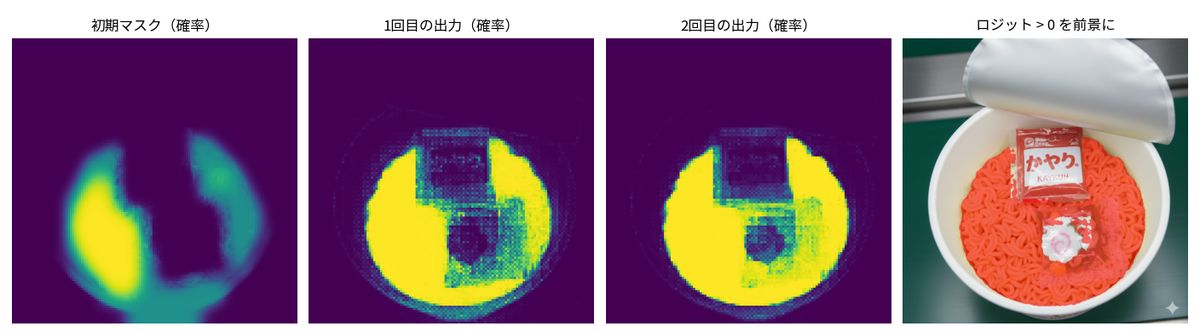
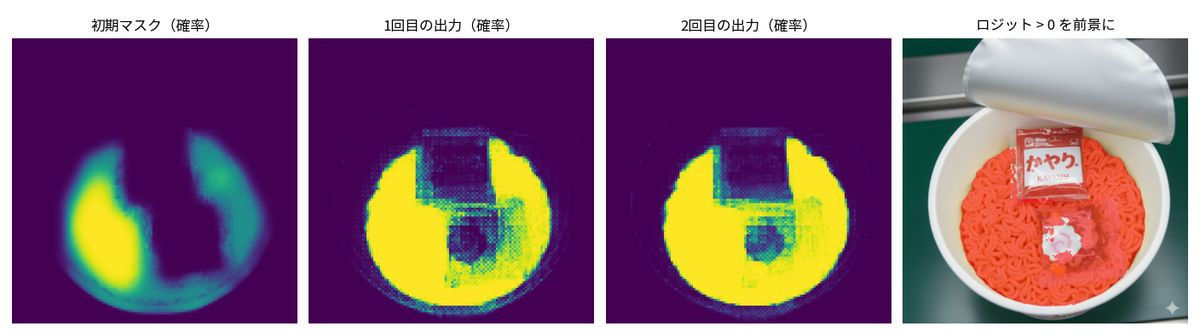
説明資料を更新

diff --git a/tools/docs/make_points_doc_images.py b/tools/docs/make_points_doc_images.py
@@ -1,0 +1,62 @@
+"""前景のプロンプト点の選び方の説明資料（docs/detailed_segmentation.md §2）用の画像を作る: 従来（パッチの中心）と現在（EdgeTAM の高解像度特徴量の画素）で、
+点・最終結果・正解の輪郭を並べる。MVTec の画像（正解 = fg_mask）を使う。
+
+    python tools/docs/make_points_doc_images.py [--images toothbrush/035 toothbrush/005] [--out docs/images/points_toothbrush.jpg]
+
+従来の選び方は SemanticRefiner.use_object_points = False（core/common/mask_utils.prompt_points）。OpenVINO 版（configs/ov_config.yaml）で実行する。
+"""
+import argparse
+import sys
+from pathlib import Path
+
+import cv2
+import matplotlib
+
+matplotlib.use("Agg")
+import numpy as np
+from PIL import Image
+
+sys.path.insert(0, str(Path(__file__).resolve().parents[2]))
+from core.openvino.runtime_utils import make_compile_config  # noqa: F401  (import openvino より前に /opt/intel/openvino を外す)
+from core.common.segmentation_runner import SegmentationRunner
+from core.openvino.edgetam_runner import OVEdgeTamRunner
+from core.openvino.feature_extractor import OVCLIPFeatureExtractor
+from core.utils import load_config, load_image
+from tools.docs.make_doc_images import DISPLAY, outline, overlay, points_on, save_panels
+
+MVTEC = Path("/home/llm/datasets/mvtec_anomaly_detection")
+
+
+def main() -> None:
+    parser = argparse.ArgumentParser()
+    parser.add_argument("--images", nargs="+", default=["toothbrush/035", "toothbrush/005"], help="MVTec のカテゴリ/番号")
+    parser.add_argument("--out", default="docs/images/points_toothbrush.jpg")
+    args = parser.parse_args()
+
+    config = load_config()
+    runner = SegmentationRunner(OVCLIPFeatureExtractor(config), OVEdgeTamRunner(config), config)
+    panels = []
+    for name in args.images:
+        category, index = name.split("/")
+        image = load_image(MVTEC / category / "train" / "good" / f"{index}.png")
+        gt = np.array(Image.open(MVTEC / "fg_mask" / category / f"{index}.png"))
+        gt = (gt[..., 0] if gt.ndim == 3 else gt) > 0
+        base = cv2.resize(image, (DISPLAY, DISPLAY), interpolation=cv2.INTER_AREA)
+        scale = DISPLAY / max(image.shape[:2])
+        gt_display = cv2.resize(gt.astype(np.uint8), (DISPLAY, DISPLAY), interpolation=cv2.INTER_NEAREST)
+        for use_object_points, label in ((False, "従来（パッチの中心）"), (True, "現在（高解像度の画素）")):
+            runner.refiner.use_object_points = use_object_points
+            result = runner.segment(image)
+            predicted = result.semantic_map > 0
+            truth = cv2.resize(gt.astype(np.uint8), predicted.shape[::-1], interpolation=cv2.INTER_NEAREST) > 0
+            iou = (predicted & truth).sum() / max((predicted | truth).sum(), 1)
+            panel = overlay(base, cv2.resize(predicted.astype(np.uint8), (DISPLAY, DISPLAY), interpolation=cv2.INTER_NEAREST), (255, 0, 0), 0.45)
+            panel = outline(panel, gt_display, (255, 255, 0), 2)
+            panel = points_on(panel, result.point_coords, result.point_labels, scale, radius=6)
+            panels.append((f"{category} {index}  {label}\nIoU {iou:.3f}", panel))
+            print(f"{name}  {label}  点 {len(result.point_coords)}  IoU {iou:.3f}")
+    save_panels(Path(args.out), panels, ncols=4)
+
+
+if __name__ == "__main__":
+    main()

diff --git a/docs/detailed_segmentation.md b/docs/detailed_segmentation.md
@@ -18,7 +18,7 @@ flowchart TD
 
     subgraph L["クラスごと（_refine_classes）"]
         direction TB
-        L1["粗いマスクを連結成分に分ける<br/>connected_components"] --> L2["正例点を選ぶ<br/>prompt_points"]
+        L1["粗いマスクを連結成分に分ける<br/>connected_components"] --> L2["正例点を選ぶ<br/>_foreground_points"]
         L1 --> L3["初期マスクを作る<br/>_build_prior_map"]
         L2 --> L4["EdgeTAM デコーダを 2 回反復<br/>_estimate_class_logit"]
         L3 --> L4
@@ -47,8 +47,9 @@ flowchart TD
 | 粗い格子の輪郭を、画素単位にしたい | EdgeTAM に点と初期マスクを与える | 画像を見て輪郭が決まる |
 | 粗い結果の太り・欠けを引き継ぎたくない | 粗いマスクを**ヒント**にする。内側は確実・縁とその外側 1 パッチは「不明」・それより外は背景 | 太りは削れ、縁のパッチが落ちていても縁が戻る |
 | 小さい・細い物体にも点を置きたい | 正例点に、**各連結成分の最内点を必ず含める** | 漏れなく点が置かれる |
+| 点がパッチの中心だと、縁のパッチでは物体の外に落ち、細い物体では一部（歯ブラシの毛だけ）に偏る。EdgeTAM は点のある領域だけをマスクにする | 残りの正例点を、パッチの中心ではなく、**EdgeTAM の高解像度特徴量（128×128）の画素**から、**物体らしさ**で重みづけして選ぶ（粗いマスクの縁のパッチも含める） | 点が縁・細い部分まで届く（toothbrush の IoU 0.67〜0.70 → 0.96〜0.98）。パラメータは増えない |
 | 背景の斑点から、物体が背景へ広がる | 孤立した極小成分（3 パッチ未満）は、クラスの推定に混ぜない | 斑点に置いた点を経由した広がりを防ぐ |
-| 点を置く場所が悪いと結果が壊れる（正例が縁だと背景へ広がり、負例が物体の近くだと欠ける） | 正例は core（内側）、負例は**前景から離れた、最も背景と確信できる場所** | 点が結果を壊さない |
+| 点を置く場所が悪いと結果が壊れる（正例が背景だと背景へ広がり、負例が物体の近くだと欠ける） | 正例は**背景より物体に近い画素**（物体らしさが正）、負例は**前景から離れた、最も背景と確信できる場所** | 点が結果を壊さない |
 | 縁が 16px の格子に縛られる | 初期マスクを 128×128 に拡大して、**入力画像の輝度でガイデッドフィルタ** | 「不明」の縁が、画像の明るさの縁に沿って物体側・背景側へ倒れる。小物体で背景へ膨らむのも防ぐ |
 | EdgeTAM は 1 回に 1 つのマスクしか返さない | **クラスごとに別々に推定**し、重なりはスコアで決める | クラス間で公平に決められる |
 | 切り出せなかった物体がある | 最内点が覆われていない成分を、**単独で再推定** | 取りこぼしを拾える |
@@ -63,10 +64,10 @@ flowchart TD
 | | コイン | カップ麺 |
 |---|---|---|
 | 前景クラス | 1（coin） | 4（noodle・package・white plastic lid・round white food container） |
-| 麺クラスの連結成分 | — | 2（52 と 143 パッチ） |
-| 正例点 / 負例点 | 7 / 4 | 25 / 28 |
-| 再推定した成分 | 0 | 3 |
-| EdgeTAM デコーダの呼び出し | 2 回 | 14 回（(4 クラス + 再推定 3) × 2 回） |
+| 麺クラスの連結成分 | — | 3（52 と 129 パッチ、1 パッチの斑点） |
+| 正例点 / 負例点 | 7 / 4 | 24 / 24 |
+| 再推定した成分 | 0 | 2 |
+| EdgeTAM デコーダの呼び出し | 2 回 | 12 回（(4 クラス + 再推定 2) × 2 回） |
 
 ### 1. 準備
 
@@ -108,7 +109,7 @@ flowchart TD
 
 ### 2. クラスごとの連結成分と正例点
 
-関数: `_refine_classes` → `connected_components` → `prompt_points`
+関数: `_refine_classes` → `connected_components` → `_foreground_points`（`core/common/object_points.py`）
 
 ```mermaid
 flowchart TD
@@ -117,7 +118,7 @@ flowchart TD
     C --> D{"成分が 3 パッチ以上か"}
     D -->|はい| E["主成分<br/>クラスの推定に使う"]
     D -->|いいえ: 斑点| F["主成分から外す<br/>後段の再推定で扱う"]
-    E --> G["正例点 = 各主成分の最内点 +<br/>足りなければ core 上の最遠点で 4 点まで"]
+    E --> G["正例点 = 各主成分の最内点 +<br/>足りなければ物体らしい画素から 4 点まで<br/>（下の「正例点の選び方」）"]
 ```
 
 | 用語 | 意味 |
@@ -128,8 +129,8 @@ flowchart TD
 
 ![points](images/coin_r02_points.jpg)
 
-- 左: 7 つの連結成分。水色の線が core、黄点が最内点。
-- 右: EdgeTAM に渡す点。正例（緑）は **7 点**、負例（赤）は 4 点。
+- 左: 7 つの連結成分。水色の線が core、黄点が最内点（パッチの位置）。
+- 右: EdgeTAM に渡す点。正例（緑）は **7 点**、負例（赤）は 4 点。正例の点は、最内点のパッチの中で物体らしさが最大の画素にあり、パッチの中心とは少しずれる。
 - コインは 9 枚あるのに点は 7 つ。右の 3 枚（右のコイン・茶色の 10 円玉・50 円玉）は粗いマスクでつながって**1 つの成分**（76 パッチ）になり、最内点は 1 つだけだから。点がない 2 枚も、最終的には切り出せている（[4. の反復の図](#4-edgetam-デコーダの反復)）。
 - 最内点の数が `edgetam_foreground_points_per_class`（4）を超えるので、最遠点による追加は無い。
 
@@ -137,9 +138,39 @@ flowchart TD
 
 ![noodle points](images/noodle_r02_points.jpg)
 
-- 左は**麺クラス**だけ。成分は 2 つ（52・143 パッチ）。core は麺の左側と右上に広がり、中央から右下は抜けている（そこは粗いラベルが `package` で、別クラスだから）。
-- 右は全クラスの点。正例（緑）はフタ・容器・麺・袋に置かれ、合計 25 点。負例（赤）は 4 点を 7 回（4 クラス + 再推定 3）使うので 28 点。
-- 正例点は画像の**下端にも並ぶ**。粗い前景が画面下端まで伸びているため。
+- 左は**麺クラス**だけ。成分は 3 つ（129・52 パッチと、1 パッチの斑点）。斑点は 3 パッチ未満なので主成分から外れる（後段の再推定で扱う）。core は麺の左側と右上に広がり、中央から右下は抜けている（そこは粗いラベルが `package` で、別クラスだから）。
+- 右は全クラスの点。正例（緑）はフタ・容器・麺・袋に置かれ、合計 24 点。負例（赤）は 4 点を 6 回（4 クラス + 再推定 2）使うので 24 点。
+- 正例点は画像の**下端・右下にも並ぶ**（再推定した成分の点も含む）。粗い前景が画面下端まで伸びているため。
+
+#### 正例点の選び方（物体らしさ）
+
+粗いマスクはパッチ単位（1 パッチ = 16 画素）で、縁のパッチは物体と背景が混ざる。点をパッチの中心に置くと、縁や細い物体では、点が物体の外に落ちたり、物体の一部に偏ったりする。EdgeTAM は点のある領域だけをマスクにするので、偏りはそのまま欠けになる。そこで、残りの正例点を、パッチの中心ではなく、EdgeTAM の高解像度特徴量の**画素**から選ぶ（`core/common/object_points.py`）。
+
+```mermaid
+flowchart TD
+    A["EdgeTAM の特徴量 3 層<br/>128×128・64×64・32×32<br/>画素ごとに L2 正規化（画像に 1 回）"] --> B["物体の特徴 = クラスの core の平均<br/>背景の特徴 = 粗い前景から 2 パッチ以上離れた領域の平均（画像に 1 回）"]
+    B --> C["物体らしさ = 物体の特徴とのコサイン類似度<br/>− 背景の特徴とのコサイン類似度<br/>3 層を 128×128 に拡大して平均"]
+    C --> D["候補 = 粗いマスク全体（縁のパッチを含む）のうち<br/>物体らしさが正の画素"]
+    D --> E["各成分の最内点 = そのパッチの中で<br/>物体らしさが最大の画素"]
+    E --> F["残りは「選択済みの点からの距離 × 物体らしさ」が<br/>最大の画素を、4 点まで足す"]
+```
+
+![points toothbrush](images/points_toothbrush.jpg)
+
+- toothbrush の 2 枚。黄線は正解の輪郭、赤は最終結果、緑は正例点、左上の赤は負例点。
+- 従来（パッチの中心。左の 2 枚）は、点が毛の中に集まり、EdgeTAM が毛の領域だけをマスクにする（ヘッドの縁と柄が欠ける。IoU 0.694・0.704）。
+- 現在（右の 2 枚）は、点がヘッドの縁・柄まで届き、全体がマスクになる（IoU 0.976・0.976）。
+- 距離だけで選ぶと（物体らしさを掛けないと）縁の背景寄りの画素に点が寄り、合成データで下がる（−0.009）。距離に物体らしさを掛けると、MVTec・独立・合成のすべてで上がる。
+
+| 前景 IoU | 従来 | 現在 | 差（95% 区間） |
+|---|---|---|---|
+| MVTec 96 枚 | 0.8338 | 0.8492 | +0.0155（+0.0039〜+0.0305） |
+| 独立 48 枚 | 0.8404 | 0.8638 | +0.0234（+0.0064〜+0.0446） |
+| 合成 120 枚 | 0.6524 | 0.6628 | +0.0104（+0.0006〜+0.0239） |
+
+- **改善は、細長く領域が分かれた物体に偏る。** MVTec・独立 144 枚の改善は toothbrush（平均 +0.105）と transistor（+0.040）に集中する。toothbrush・transistor・screw を除くと差はほぼ 0（+0.0003。改善 14 枚・悪化 11 枚）で、悪化した画像の悪化幅も小さい（最大 −0.033）。
+- 背景の特徴が作れないとき（前景が画像の全体など）は、従来どおり core 上のパッチの中心から選ぶ。
+- 点は 4 点のまま（パラメータは増えない）。時間は +約 6ms（実画像 177 枚の中央値 184 → 190ms）。
 
 ### 3. 初期マスク（事前確率）
 
@@ -196,7 +227,7 @@ sequenceDiagram
     participant H as EdgeTamHelper
     participant D as EdgeTAM デコーダ
 
-    R->>R: 正例点（成分の最内点）+ 負例点 4 点<br/>初期マスク = (2p − 1) × 8
+    R->>R: 正例点（物体の上の画素）+ 負例点 4 点<br/>初期マスク = (2p − 1) × 8
     loop edgetam_refine_iterations（2 回）
         R->>H: preprocess(点, 初期マスク)<br/>座標を入力画像の座標へ
         H-->>R: 正規化した点・マスク
@@ -291,19 +322,18 @@ flowchart TD
 - 極小成分は、周囲の背景まで広がらないよう範囲を制限する。1〜2 パッチの孤立成分は、背景の斑点であることが多い。
 - **コイン画像では発動しない**。7 つの成分の最内点は、どれもクラスのマスクに覆われていた。発動する例はカップ麺の画像（次の図）。
 
-**カップ麺の場合**（4 クラス。覆われていない成分が 3 つ）:
+**カップ麺の場合**（4 クラス。覆われていない成分が 2 つ）:
 
 ![noodle rescue](images/noodle_r08_rescue.jpg)
 
 | クラス | 成分（最内点） | パッチ数 | 範囲の制限 |
 |---|---|---|---|
 | 2（package） | (30, 29)。右下の星印のロゴ | 3 | なし（3 パッチ以上） |
-| 4（round white food container） | (11, 30)。画面下端 | 2 | あり（1 パッチ広げた範囲まで） |
-| 4（round white food container） | (14, 31)。画面下端 | 5 | なし（3 パッチ以上） |
+| 2（package） | (15, 31)。画面下端 | 3 | なし（3 パッチ以上） |
 
-- 左: 各クラスのマスクをすべて重ねた状態（再推定の前）。上の 3 つの成分には、最内点にどのクラスのマスクも届いていない（赤枠）。
-- 右から 2 番目: 再推定で足された画素（赤）。成分ごとに単独で EdgeTAM を実行して、`semantic_map` が 0 の画素にだけ書き込んでいる。**星印のロゴ**と、**画面下端の四角い塊**（約 1 万画素。作業解像度の 1%）が足された。
-- **ここでは再推定が誤検出を足している。** 星印は物体ではなく、画面下端の塊も物体の輪郭に沿わない四角形。取りこぼしの救済は、粗い判定の誤りもそのまま救ってしまう。極小成分の制限（3 パッチ未満）は、5 パッチの成分には働かない。
+- 左: 各クラスのマスクをすべて重ねた状態（再推定の前）。上の 2 つの成分には、最内点にどのクラスのマスクも届いていない（赤枠）。
+- 右から 2 番目: 再推定で足された画素（赤）。成分ごとに単独で EdgeTAM を実行して、`semantic_map` が 0 の画素にだけ書き込んでいる。**星印のロゴ**と**画面下端の領域**が足された（合わせて 2,572 画素。作業解像度の 0.25%）。
+- **ここでは再推定が誤検出を足している。** 星印は物体ではなく、画面下端の領域も物体ではない。取りこぼしの救済は、粗い判定の誤りもそのまま救ってしまう。極小成分の制限（3 パッチ未満）は、3 パッチの成分には働かない。
 - 取りこぼしが本物の小物体のときは効く（この仕組みを入れた理由）。画像ごとの得失は、粗い段階の誤検出の多さに依る。
 
 ### 8. 後処理
@@ -333,8 +363,8 @@ flowchart TD
 
 | 処理 | 前景の変化 |
 |---|---|
-| `remove_small_regions` | +2,094 画素（小さな成分の除去と、小さな穴の穴埋めの差し引き。穴の埋まる分が上回った） |
-| `fill_narrow_gaps` | +10,991 画素（前景内部の細い隙間が、最寄りのクラスで埋まる） |
+| `remove_small_regions` | +3,845 画素（小さな成分の除去と、小さな穴の穴埋めの差し引き。穴の埋まる分が上回った） |
+| `fill_narrow_gaps` | +7,227 画素（前景内部の細い隙間が、最寄りのクラスで埋まる） |
 
 隙間埋めは、クラスが複数ある画像で、境界が画像の強い縁に重なるときに効く。コインは 1 クラスなので、割れ目が生まれない。
 
@@ -349,7 +379,7 @@ flowchart TD
 ![noodle overview](images/noodle_overview.jpg)
 
 - 左から、入力・KMeans・粗い前景マスク・EdgeTAM に渡した点・最終結果。カップ・フタ・麺・袋が、輪郭に沿って切り出された。
-- 残る誤りは、再推定の節の 2 つ（星印のロゴ・画面下端の四角い塊）。粗い段階の誤検出が、そのまま最終結果に残る。
+- 残る誤りは、再推定の節の 2 つ（星印のロゴ・画面下端の領域）。粗い段階の誤検出が、そのまま最終結果に残る。
 
 ## 格子状に並んだ小物体の分離
 
@@ -403,7 +433,7 @@ flowchart LR
 
 | キー | 値 | 意味 |
 |---|---|---|
-| `edgetam_foreground_points_per_class` | 4 | クラスごとの正例点（各成分の最内点は必ず含む） |
+| `edgetam_foreground_points_per_class` | 4 | クラスごとの正例点（各成分の最内点は必ず含む。残りは物体らしさで選ぶ） |
 | `edgetam_background_point_count` | 4 | 背景の負例点 |
 | `edgetam_refine_iterations` | 2 | デコーダの反復回数 |
 | `semantic_max_side` | 1024 | マスク演算の作業解像度（長辺） |
@@ -430,6 +460,7 @@ flowchart LR
 
 - **粗い誤りは直せない。** 背景を前景と判定したクラスは、そのまま前景になる。後から再判定して消す案も試したが、悪化した。
 - **点は連結成分ごと。** 接した複数の物体は 1 つの成分になり、点も 1 つ（このコイン画像の右の 3 枚）。切り出せるかは初期マスクと反復に依る。物体が格子状に並んでいるときだけ、セルごとに分ける（上の節）。それ以外の接した・近接した物体は、1 つの塊になりうる。
+- **正例点を物体の上に選ぶ効果は、細長く領域が分かれた物体に偏る。** MVTec・独立の改善は toothbrush・transistor に集中し、ほかのカテゴリはほぼ 0。正解の物体画素へ点を動かす上限でも MVTec は +0.001 で、点の位置だけを直す余地は小さい。正解のない実画像（D2S・COCO128）の評価は、現行との一致 IoU と目視のみ。
 - **負例点が端に寄る。** 画像の中央の背景には置かれない。ばらしても精度は上がらなかった。
 - **透明・低コントラストの物体**は、ガイデッドフィルタの手がかり（輝度の縁）が弱く、背景への広がりが残ることがある。
 - 処理時間: デコード（1 回 約 6〜7ms）の回数は「クラス数 × 反復回数 +（再推定した成分数 × 反復回数）」。クラスが多い画像ほど遅い。

diff --git a/docs/method_history.md b/docs/method_history.md
@@ -25,7 +25,7 @@ flowchart TD
     PROP --> MRG["似たプロンプトのクラスをまとめる<br/>僅差 + 同義語（物体の中）"]
     MRG --> FIX["整形<br/>穴埋め・細い領域の統合"]
     FIX --> PRIOR["初期マスク<br/>外周「不明」+ ガイデッドフィルタ"]
-    FIX --> PTS["点 4:4<br/>負例は最も確信できる背景"]
+    FIX --> PTS["点 4:4<br/>正例は物体らしい画素<br/>負例は最も確信できる背景"]
     PRIOR --> DEC["EdgeTAM デコーダ 2 回反復"]
     PTS --> DEC
     ET --> DEC
@@ -39,11 +39,12 @@ flowchart TD
     X4["SAM2.1 tiny"] -.-> DEC
     X5["再判定・候補選択・他クラス負例<br/>128×128 事前マスク・負例点をばらす"] -.-> PRIOR
     X6["動的 K・テキストの代表化・touch・anchor<br/>物体単位の命名・切り抜き埋め込みの再グループ化"] -.-> MRG
+    X7["正例点を縁から離す・パッチの中で動かす"] -.-> PTS
 
     classDef adopted fill:#d8f3dc,stroke:#2d6a4f,color:#1b1b1b;
     classDef rejected fill:#f8d7da,stroke:#842029,stroke-dasharray:4 3,color:#1b1b1b;
     class PRE,PE,PROP,MRG,PRIOR,PTS,DEC,POST adopted;
-    class X1,X2,X3,X4,X5,X6 rejected;
+    class X1,X2,X3,X4,X5,X6,X7 rejected;
 ```
 
 緑 = 現在の手法で変更した箇所（採用）。赤の破線 = 試して採用しなかった案。
@@ -64,6 +65,7 @@ flowchart TD
 | 10 | 前景プロンプト（透明な筒） | なし | **`a photo of transparent tubes.`** を追加 | 006_syringe（透明な筒 80 個の巣）が全面背景（IoU 0.0）から、前景が出る（0.69）。MVTec・独立 48 枚は変化なし、合成 0.656 → 0.663 | 複数形でないと効かない。COCO128・D2S 278 枚のうち 23 枚で最終結果が変わる（前景が増えたもの 15・減ったもの 8。工業系の実画像 16 枚は一致） |
 | 11 | 格子状の小物体の分離 | クラス単位のデコードのみ（隙間 1 パッチ未満の物体は 1 つの塊） | **画像の勾配の自己相関で格子を検出したときだけ、セルごとの箱プロンプトで 1 個ずつデコード**（`lattice.py`・`lattice_separator.py`） | 006 の IoU 0.69 → **0.91**（前景 FP 23% → 3.8%）。005 は空きスロット 7 個を除ける。PyTorch 版も同じ | 作動は狭い（検証 559 枚では 006 のみ。ほかに巣の 004・005、合成の格子 120 枚中 3 枚）。作動時 約 +150ms（判定は毎回 約 6ms）。箱の大きさに敏感（+8% で 0.86、−6% で 0.81、±12% で 0.71〜0.75）。高密度（ピッチ 2 パッチ未満）は未対応。C++ 版は未対応 |
 | 12 | 1 つの物体のクラスの割れ | クラスタごとに最も近いプロンプトを選ぶだけ（似たプロンプトに割れる） | **PE のクラスタのロジットが僅差（1.0 以内）のプロンプトを、より大きいクラスへ統合 + 1 つの物体の中の同義語（テキスト埋め込みの距離 0.08 以内）をまとめる**（`semantic_merge.py`） | 透明なボトル（cap）が 2 クラス（tube / transparent tubes）に割れるのを直す。部品の種類が 1 つの画像で 2 クラス以上に割れる枚数 81 → 50（351 枚）。カップ麺の 4 クラス（麺・袋・ふた・容器）は保つ。前景 IoU は変わらない（MVTec +0.0019・独立 48 枚 +0.0041・合成 ±0。いずれも有意差なし）。処理時間は変わらない（173 → 166ms） | 統合してからデコードするので、格子分離が作動しなくなる画像がある（合成の格子 1 枚で −0.59）。部品の種類の区別は強まらない（V 0.25）。D2S（食品）の 150 枚のうち 54 枚で前景が変わる（一致 IoU < 0.99。29 枚は < 0.9。正解がなく良し悪しは目視。目視した 8 枚では、2 枚で机の面を前景にする誤りが減り、ほかは同程度）。C++ 版は未対応 |
+| 13 | 前景のプロンプト点の位置 | パッチの中心（各成分の最内点 + core 上の最遠点） | **EdgeTAM の高解像度特徴量（128×128）の画素から、物体らしさ（core の特徴との類似度 − 背景の特徴との類似度）で重みづけした最遠点サンプリング**（`object_points.py`。粗いマスクの縁のパッチも候補） | 前景 IoU が、MVTec 0.8338 → 0.8492（+0.0155）・独立 48 枚 0.8404 → 0.8638（+0.0234）・合成 0.6524 → 0.6628（+0.0104）で、3 つとも有意。toothbrush は 0.67〜0.70 → 0.96〜0.98（点が毛の中に集まり、ヘッドの縁・柄が欠けていた）。パラメータは増えない。実画像 177 枚（正解なし）で一致 IoU 平均 0.944、D2S の机の面を前景にする誤りが 16 枚中 8 枚で減る（目視） | 改善は toothbrush（+0.105）・transistor（+0.04）に偏る（これらと screw を除くと +0.0003）。処理時間 +約 6ms（実画像の中央値 184 → 190ms）。背景の特徴が作れないとき（前景が画像の全体など）は従来の点。C++ 版は未対応 |
 
 ### 精度の推移（本体のパイプライン、同じ条件）
 
@@ -184,6 +186,8 @@ flowchart LR
 | 負例 | 負例点をばらす（候補の拡大・EdgeTAM の特徴で 4 つに分ける） | MVTec・合成で有意な改善なし。確信度を使わない選び方は有意に悪化（MVTec −0.0036、独立 −0.0108） | 密集の理由は伝播の副作用だが、結果に影響しない |
 | 点 | 点を増やす（12:12・16:16） | 8:8 と差なし | 8 点で飽和 |
 | 点 | 外周なしで点を減らす | 2:2 以下は有意に悪化 | 外周ありでのみ減らせる |
+| 点 | 正例点を粗いマスクの縁から離す（深さで重みづける・縁を選択済みとみなす・core をさらに縮める・常に最深の点） | 深さが増すほど悪化（MVTec 0.8338 → 0.8327 → 0.8092 → 0.7926、独立 0.8404 → 0.8386 → 0.7746 → 0.7555）。合成は差なし | 点が物体の厚い部分に集まり、EdgeTAM は点のある領域だけをマスクにする（capsule の再現率 0.980 → 0.799、適合率は変わらず）。縁寄りの最遠点は「物体の広がり」を伝える役をしている |
+| 点 | 正例点を、選んだパッチの中だけで動かす（core の重心へ寄せる・パッチ内で物体らしさが最大の画素へ・3×3 パッチの窓） | core の重心へ寄せる: MVTec −0.0013・独立 +0.0001・合成 +0.0050。パッチ内の最大の画素へ: +0.0049・+0.0041・+0.0111。3×3 の窓は広がりが崩れて悪化気味 | 正解の物体画素へ動かす上限でも MVTec +0.001・合成 +0.012〜+0.016（点の位置だけを直す余地は小さい）。現在の手法は、最遠点の選び方ごと高解像度の画素から選ぶ（MVTec +0.0155） |
 | ガイデッドフィルタ | カラー版・半径 8・フィルタのみ | カラーは同じで重い（約 91ms）。半径 8 は悪い。フィルタのみは有意でない | グレー・半径 4・外周と併用が最良 |
 | 詳細側のプロンプト | 近接した負例・箱・自己プロンプト・成分ごとの推定 | MVTec・合成の両方で安定して上がるものが無い | 正解注入の上限（0.886 / 0.894）に対し、伸びしろが小さい |
 | 後処理 | 1 クラスの隙間も埋める | 合成の小物体で凹みを埋めて IoU が下がる（−0.0016） | 現在は「両側が 2 クラス以上に接する隙間」だけ |
@@ -215,6 +219,7 @@ flowchart LR
 | まとまった誤検出が残る | 星印のロゴなど、EdgeTAM の特徴でもまとまる誤検出は、伝播で消えない。さらに、取りこぼしの再推定がそれを前景として足すことがある（カップ麺の例、[detailed_segmentation.md](detailed_segmentation.md)） | 今回の資料作成で確認 |
 | 取りこぼしの再推定の効果が未測定 | 発生頻度と IoU への寄与は測っていない。無効にしたときの差は、`eval_pipeline.py` で比べられる | 取りこぼしの再推定 |
 | クラス単位の区別が弱い | 部品の種類が複数ある画像で、正解の種類 3.6 に対し予測クラス 1.5。結果はほぼ前景 / 背景 | 診断 Phase 0 |
+| 正例点の改善が偏る | 点を物体の上に選ぶ改善（MVTec +0.0155）は、toothbrush（+0.105）・transistor（+0.04）に集中し、ほかのカテゴリはほぼ 0。正解の物体画素へ点を動かす上限でも MVTec +0.001 | 前景点の検証 |
 | 負例点が端に寄る | 画像の中央の背景には置かれない（精度への影響は確認できていない） | 負例点の検証 |
 | 縁の手がかりが輝度だけ | 透明・低コントラストの物体は、背景への広がりが残る | ガイデッドフィルタの検証 |
 | 評価の限界 | 合成データは貼り合わせで、natural 背景には実物が写る。screw・transistor は正解が物体に沿わず、改良を測れない。zipper は画面の 78% が前景で、評価から除く（cable も除く運用）。多くの実験は、同じ画像で変種を多数比べており、多重比較の補正がない | 各実験の限界 |
@@ -223,7 +228,7 @@ flowchart LR
 | 空きスロットの区別 | 005 は除けるが、004 は物体のあるセルと粗い前景確信度が区別できず、前景のまま | 格子分離の検証 |
 | 小さな物体の見逃し（合成） | 画面の 0.5% 未満の物体の見逃しは 25%（33/132）。そのうち 28 は粗い判定が前景にしていない。背景が一様な画像では 0 件で、複雑な背景（natural 18・pattern 9・textured 6）に集中する。大きさそのものは原因ではない | 格子分離の検証 |
 | クラスの統合の副作用 | 統合してからデコードするので、デコードの結果が変わる。格子分離は、デコードのロジットの形から位相を探すので、統合で 1 つの塊になると作動しない（合成の格子 1 枚で −0.59。平均 −0.005）。部品の種類が複数ある画像では、種類の区別は強まらない（予測 1.1 クラスに対し正解 3.1 種類） | クラスの統合の検証 |
-| C++ 版 | `resize_mode: square` のみ対応。格子分離・クラスのまとめ（`semantic_merge.py`）は未対応（プロンプトは共通の yaml を読むなら反映される） | `CLAUDE.md` |
+| C++ 版 | `resize_mode: square` のみ対応。格子分離・クラスのまとめ（`semantic_merge.py`）・前景点の選び方（`object_points.py`）は未対応（プロンプトは共通の yaml を読むなら反映される） | `CLAUDE.md` |
 
 ## 評価の前提
 

diff --git a/docs/overview.md b/docs/overview.md
@@ -100,7 +100,7 @@ sequenceDiagram
 |---|---|---|
 | 学習なしで物体の種類を知りたい | EdgeTAM は「点を置いた物体」を切り出すだけで、種類は分からない | PE（CLIP 系）が画像とテキストを比べて、種類と場所を決める |
 | 輪郭を画素単位で正確にしたい | PE の特徴は 16px = 1 パッチ。32×32 の格子では輪郭が荒く、縁・影で太る | EdgeTAM が画像を見て輪郭を決める |
-| EdgeTAM に点を置く場所が要る | 点を自動で決める手がかりが無い | PE の粗い結果の「内側」に正例点、「遠い背景」に負例点を置く |
+| EdgeTAM に点を置く場所が要る | 点を自動で決める手がかりが無い | PE の粗い結果の「内側」と、EdgeTAM の特徴で物体らしいと分かる画素に正例点、「遠い背景」に負例点を置く |
 | 速く動かしたい | 画像全体を重いモデルで画素単位に判定すると遅い | 粗い段階は 8 クラスタを 8 回判定するだけ。EdgeTAM はエンコーダ 1 回 + クラスごとに軽いデコーダ |
 
 **粗い結果は「正解」ではなく「ヒント」** として渡す。内側は確実、縁は不明として扱うので、粗い段階の太りや欠けを引き継がない（[detailed_segmentation.md](detailed_segmentation.md)）。
@@ -166,6 +166,7 @@ NumPy の BLAS のスレッドは 1 に制限している（`core/openvino/runti
 
 ```bash
 python tools/docs/make_doc_images.py [--image PATH] [--prefix coin]   # docs/images/ に JPEG で出力（幅 1200px 以下）
+python tools/docs/make_points_doc_images.py                             # 前景点の選び方の比較図（points_toothbrush.jpg。MVTec の toothbrush で従来 / 現在）
 ```
 
 本体の `segment` と同じ処理を段階ごとに呼び、中間結果を画像にする（最後に `semantic_map` が本体と一致することを確かめる）。
